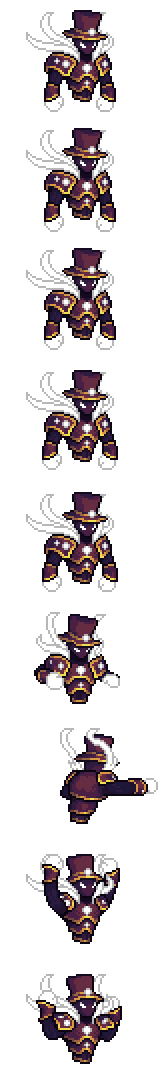
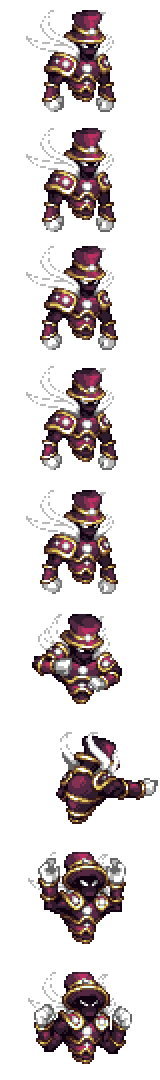
Resprited Eridanus

diff --git a/Content/Bosses/AbomBoss/AbomFrostShard.cs b/Content/Bosses/AbomBoss/AbomFrostShard.cs
@@ -4,6 +4,7 @@ using Microsoft.Xna.Framework;
 using Microsoft.Xna.Framework.Graphics;
 using Terraria;
 using Terraria.Audio;
+using Terraria.GameContent;
 using Terraria.ID;
 using Terraria.ModLoader;
 
